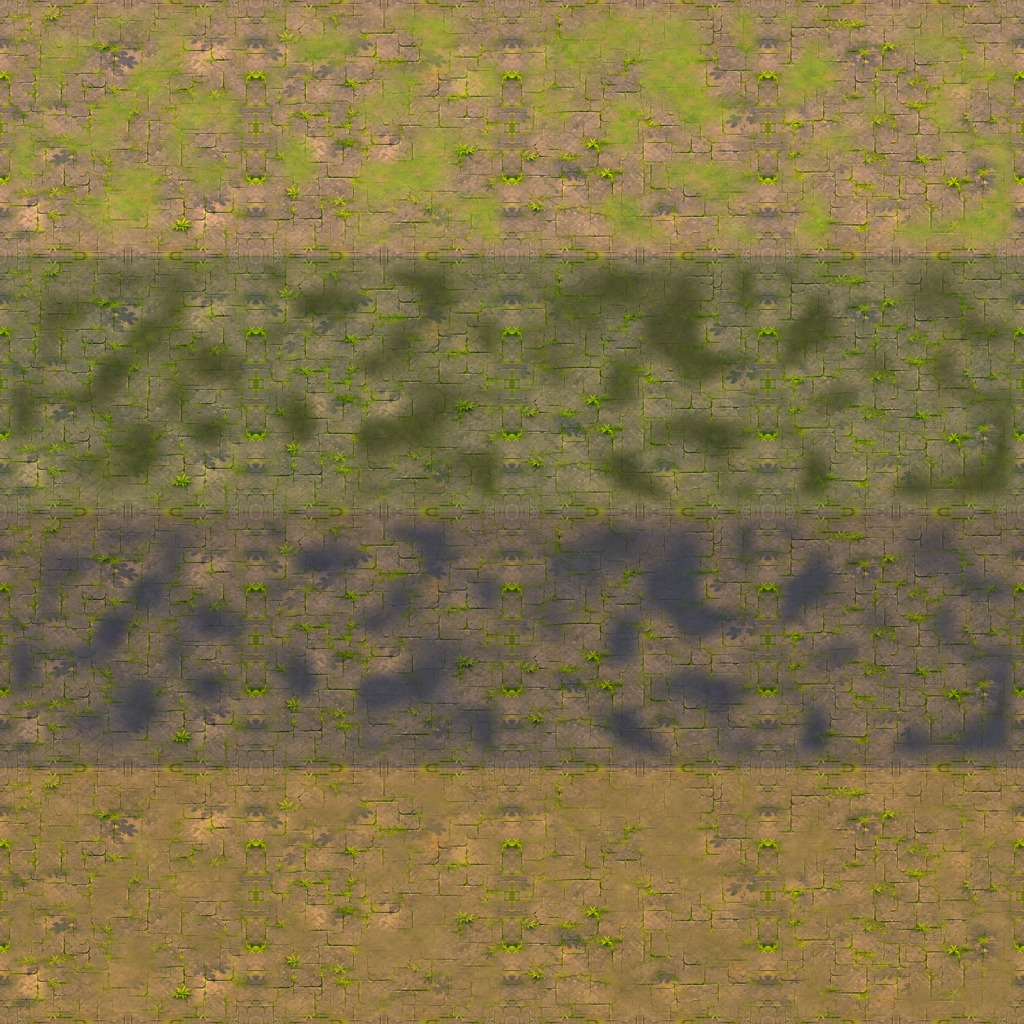
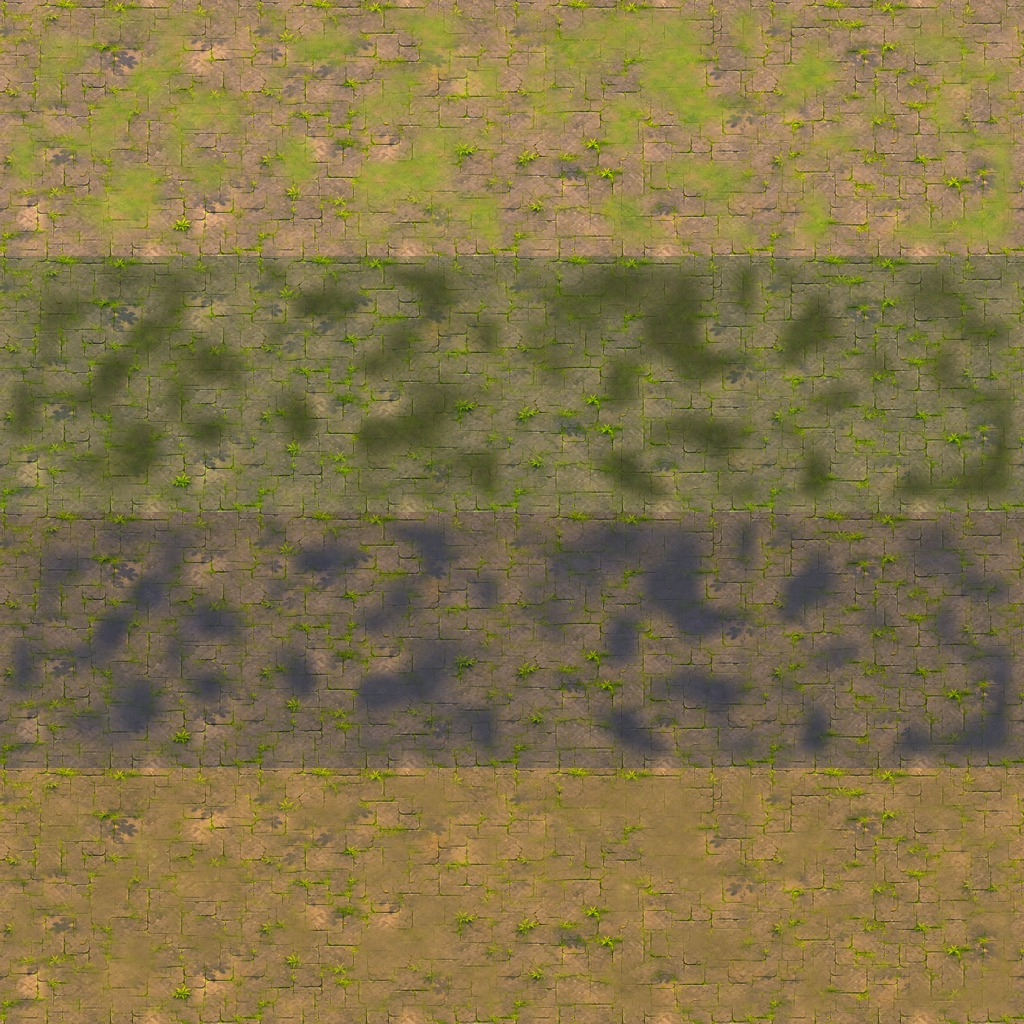
Polish captured forest edges, remove mirrored paving and expose water shelves

Changed region(s): [[0.0, 0.0, 1.0, 1.0]]

diff --git a/OutpostZero/WorldOneEnvironmentPlan.swift b/OutpostZero/WorldOneEnvironmentPlan.swift
@@ -88,7 +88,9 @@ enum WorldOneEnvironmentPlan {
                 let height: CGFloat = 104 + random()*42
                 let width = height*aspect(tree)
                 let anchor = WorldOneArtMetrics.groundAnchorY(for: tree)
-                let distance = 8 + random()*30
+                // Set the forest back behind the north/south water shelves.
+                let wetShelf = (theme == .swamp || theme == .caves) && side >= 2 && t > 0.25 && t < 0.75
+                let distance = 8 + random()*30 + (wetShelf ? 100 : 0)
                 var x: CGFloat, y: CGFloat
                 switch side {
                 case 0: x = bounds.minX-distance-width/2; y = bounds.minY + length*t
@@ -110,7 +112,7 @@ enum WorldOneEnvironmentPlan {
         // A sprite's full frame must fit a blocked rectangle. No column courses,
         // repeated wall rails, new invisible obstacles or mid-lane decorations.
         for (index, patch) in blocked.enumerated() {
-            let rows = max(1, Int(patch.height/58))
+            let rows = max(1, Int(patch.height/34))
             for row in 0..<rows {
                 let kinds = ["vegetation", "boulder", "wall", "vegetation", "debris"]
                 let kind = kinds[(row+index+room)%kinds.count]
@@ -119,7 +121,7 @@ enum WorldOneEnvironmentPlan {
                 let y = patch.minY + CGFloat(row+1)*patch.height/CGFloat(rows+1)
                 add(name, x: patch.midX + (random()-0.5)*min(10, patch.width*0.2),
                     y: y, height: max(14, height), inside: patch)
-                if patch.width >= 70, row.isMultiple(of: 2) {
+                if patch.width >= 70 {
                     add("forest_broadleaf_polished", x: patch.midX, y: y,
                         height: min(105, patch.width/aspect("forest_broadleaf_polished")-4), inside: patch)
                 }
@@ -140,7 +142,9 @@ enum WorldOneEnvironmentPlan {
             ? [CGRect(x: bounds.minX-130, y: bounds.minY+bounds.height*0.25,
                       width: 130, height: 170),
                CGRect(x: bounds.maxX, y: bounds.minY+bounds.height*0.65,
-                      width: 120, height: 145)] : []
+                      width: 120, height: 145),
+               CGRect(x: bounds.midX-190, y: bounds.minY-120, width: 180, height: 120),
+               CGRect(x: bounds.midX+10, y: bounds.maxY, width: 180, height: 120)] : []
         return Plan(room: room, theme: theme, bounds: bounds, groundBounds: ground,
             blocked: blocked, props: props, pools: pools,
             groundOrigin: CGPoint(x: bounds.midX-256, y: bounds.minY-128))

diff --git a/OutpostZero/OutpostScene.swift b/OutpostZero/OutpostScene.swift
@@ -2338,7 +2338,9 @@ final class OutpostScene: SKScene {
         if arena.parent != nil { BattlefieldArt.install(in: self, behind: arena, includeForest: worldMapIndex != 0) }
         passageGate.position = authoredGatePosition
         if !zoneScenery.children.isEmpty { updateZoneScenery(zoneIndex) }
-        if !hazardScenery.children.isEmpty { rebuildTerrainHazards() }
+        // World 1 shoulders have no separate hazard drawing now. Their
+        // collision patches must still follow a resized room's new origin.
+        if (worldMapIndex == 0 && wave > 0) || !hazardScenery.children.isEmpty { rebuildTerrainHazards() }
         if wave == 0 && phase == .ready { pilot.position = entryPoint }
         updateArenaCamera(delta: 1)
         // One utility row and a slim progress row, below the device safe area.
@@ -6801,7 +6803,9 @@ final class OutpostScene: SKScene {
         guard build338ReviewEnabled else { return }
         if build338ReviewStart == nil { build338ReviewStart = clock }
         let elapsed = clock-build338ReviewStart!
-        let boundaries: [TimeInterval] = [2,4,6,8,10,12,14,16,20,23]
+        // Let recordVideo finish opening before leaving the entrance. The
+        // first capture lost that initial two-second presentation window.
+        let boundaries: [TimeInterval] = [5,8,11,14,17,20,23,26,31,34]
         let stage = boundaries.filter { elapsed >= $0 }.count
         guard stage != build338ReviewStage else { return }
         build338ReviewStage = stage
@@ -6875,13 +6879,14 @@ final class OutpostScene: SKScene {
             ?? SKLabelNode(fontNamed: "AvenirNext-Heavy")
         if label.parent == nil {
             label.name = "build338ReviewLabel"
-            label.fontSize = 11
+            label.fontSize = 9
+            label.horizontalAlignmentMode = .right
             label.fontColor = .cyan
             label.zPosition = 100
             addChild(label)
         }
         label.text = "BUILD 338 QA: \(names[stage].uppercased())"
-        label.position = CGPoint(x: size.width/2,y: size.height-(view?.safeAreaInsets.top ?? 0)-145)
+        label.position = CGPoint(x: size.width-12,y: max(12,(view?.safeAreaInsets.bottom ?? 0)+8))
         print("[BUILD338] stage=\(names[stage]) elapsed=\(elapsed) room=\(wave) pilot=\(pilot.position) camera=\(arena.position)")
         fflush(stdout)
     }

diff --git a/scripts/extract_build338_frames.swift b/scripts/extract_build338_frames.swift
@@ -1,0 +1,38 @@
+import AppKit
+import AVFoundation
+import Foundation
+
+// Extract actual simulator video frames, never reconstructed scene previews.
+// The small recording-start offset is estimated from the completed tour's
+// 34-second trace. The visible QA badge must be checked during human review.
+let directory = URL(fileURLWithPath: "build338-review", isDirectory: true)
+let asset = AVURLAsset(url: directory.appendingPathComponent("world1-tour.mp4"))
+let duration = CMTimeGetSeconds(asset.duration)
+precondition(duration > 25, "Tour video must include the full extended entrance hold")
+let generator = AVAssetImageGenerator(asset: asset)
+generator.appliesPreferredTrackTransform = true
+generator.requestedTimeToleranceBefore = .zero
+generator.requestedTimeToleranceAfter = .zero
+let samples: [(String, Double)] = [
+    ("outpost-entry",2.5), ("outpost-combat",6.5), ("swamp",9.5),
+    ("toxic-caves",12.5), ("reactor",15.5), ("boss",18.5),
+    ("far-wall-portal",21.5), ("portal-approach",24.5),
+    ("long-camera",28.5), ("transition",32.5)
+]
+let offset = max(0,34-duration)
+var report: [[String: Any]] = []
+for (name, elapsed) in samples {
+    let seconds = min(duration-0.1,max(0.2,elapsed-offset))
+    var actual = CMTime.zero
+    let image = try generator.copyCGImage(at: CMTime(seconds: seconds,preferredTimescale: 600),actualTime: &actual)
+    let png = NSBitmapImageRep(cgImage: image).representation(using: .png,properties: [:])!
+    try png.write(to: directory.appendingPathComponent(name+".png"))
+    report.append(["stage":name,"video_seconds":CMTimeGetSeconds(actual),
+                   "width":image.width,"height":image.height])
+}
+let manifest: [String: Any] = ["video_duration_seconds":duration,
+    "estimated_recording_start_offset":offset,"frames":report,
+    "visual_approval":false,"note":"Check visible stage badges and actual pixels; extraction is not visual approval."]
+try JSONSerialization.data(withJSONObject: manifest,options: [.prettyPrinted,.sortedKeys])
+    .write(to: directory.appendingPathComponent("frame-manifest.json"))
+print("Extracted ten actual simulator frames for human review")

diff --git a/OutpostZero/WorldOneEnvironment.swift b/OutpostZero/WorldOneEnvironment.swift
@@ -37,11 +37,20 @@ enum WorldOneEnvironment {
         if !plan.blocked.isEmpty {
             let grove = SKCropNode()
             grove.name = "solidForestShoulders"
-            let path = CGMutablePath()
-            for rect in plan.blocked { path.addRect(rect) }
-            let mask = SKShapeNode(path: path)
-            mask.fillColor = .white
-            mask.strokeColor = .clear
+            // Soft overlapping masks remove the rectangular soil panels seen
+            // in the first live capture. Actual collision remains rectangular;
+            // dense rooted foliage describes that footprint above the soil.
+            let mask = SKNode()
+            for rect in plan.blocked {
+                let count = max(1, Int(ceil(rect.height/65)))
+                for index in 0..<count {
+                    let lobe = SKSpriteNode(texture: ProductionPresentation.glow(.white))
+                    lobe.size = CGSize(width: rect.width*1.45, height: min(190,rect.height*1.6))
+                    lobe.position = CGPoint(x: rect.midX + CGFloat(index%3-1)*rect.width*0.08,
+                        y: rect.minY+(CGFloat(index)+0.5)*rect.height/CGFloat(count))
+                    mask.addChild(lobe)
+                }
+            }
             grove.maskNode = mask
             if let moss = texture("world1_\(plan.theme.family)_floor_1") {
                 for rect in plan.blocked {

diff --git a/tests/WorldOneUnifiedTests.swift b/tests/WorldOneUnifiedTests.swift
@@ -24,7 +24,7 @@ struct WorldOneUnifiedTests {
             let plan = WorldOneEnvironmentPlan.make(room: room, layout: layout, origin: origin, aspect: aspect)
             precondition(plan.bounds == layout.bounds.offsetBy(dx: origin.x, dy: origin.y))
             precondition(plan.groundBounds.contains(plan.bounds.insetBy(dx: -20, dy: -132)))
-            precondition(plan.props.count < 160, "Bound environment node creation per room")
+            precondition(plan.props.count < 220, "Bound dense forest sprite creation per room")
             for prop in plan.props where prop.frame.intersects(plan.bounds) {
                 precondition(plan.blocked.contains { $0.contains(prop.frame) },
                     "Scenery cannot occupy a navigable lane: \(prop.asset), room \(room)")

diff --git a/scripts/bake_build338_ground.py b/scripts/bake_build338_ground.py
@@ -41,20 +41,20 @@ def quilt(source, seed):
                     xx, yy = px+ox, py+oy
                     if xx < SIZE and yy < SIZE and xx+edge > 0 and yy+edge > 0:
                         canvas.paste(patch, (xx, yy), mask)
-    # Periodicize using the reflected four quadrants of the central material.
-    # The common collar below then guarantees all variants join one another.
+    # Each patch is pasted across the toroidal boundary in the same order.
+    # The common collar below guarantees that different variants also join.
     return canvas
 
 
 def periodic(image):
-    # Fold a half-size material patch into a periodic surface. The material
-    # is authored stone/grass; no floor geometry or rectangular stone stamps.
-    a = image.crop((256, 256, 768, 768))
-    out = Image.new('RGB', (SIZE, SIZE))
-    out.paste(a, (0, 0))
-    out.paste(a.transpose(Image.Transpose.FLIP_LEFT_RIGHT), (512, 0))
-    out.paste(a.transpose(Image.Transpose.FLIP_TOP_BOTTOM), (0, 512))
-    out.paste(a.transpose(Image.Transpose.FLIP_LEFT_RIGHT).transpose(Image.Transpose.FLIP_TOP_BOTTOM), (512, 512))
+    # The quilt already wraps; do not mirror quadrants. Mirroring introduced
+    # conspicuous paired stone seams in the first actual simulator capture.
+    # Match only the outermost samples to make filtering at cell edges exact.
+    out = image.copy()
+    column = Image.blend(out.crop((0,0,1,SIZE)),out.crop((SIZE-1,0,SIZE,SIZE)),0.5)
+    out.paste(column,(0,0));out.paste(column,(SIZE-1,0))
+    row = Image.blend(out.crop((0,0,SIZE,1)),out.crop((0,SIZE-1,SIZE,SIZE)),0.5)
+    out.paste(row,(0,0));out.paste(row,(0,SIZE-1))
     return out
 
 
@@ -65,6 +65,7 @@ def main():
     collar.putdata([round(255*min(1, max(0, (min(x, y, SIZE-1-x, SIZE-1-y)-24)/72)))
                     for y in range(SIZE) for x in range(SIZE)])
     outputs = []
+    secondary_sources = {}
     previews = Image.new('RGB', (4*256, 4*256))
     for row, (theme, tint) in enumerate(THEMES.items()):
         for variant in range(4):
@@ -75,6 +76,7 @@ def main():
             family = {'outpost':'ruined_outpost', 'swamp':'swamp_basin',
                       'caves':'toxic_caves', 'sanctuary':'boss_arena'}[theme]
             soil_path = ROOT / f'OutpostZero/Assets.xcassets/world1_{family}_floor_1.imageset/world1_{family}_floor_1.png'
+            secondary_sources[str(soil_path.relative_to(ROOT))] = hashlib.sha256(soil_path.read_bytes()).hexdigest()
             soil_source = Image.open(soil_path).convert('RGB').crop((32,100,480,660))
             soil = quilt(soil_source, 8338+variant*29)
             rng = random.Random(77338+variant*31)
@@ -102,6 +104,7 @@ def main():
     previews.save(target / 'derived-materials-source-preview.jpg', quality=92)
     (target / 'ground-provenance.json').write_text(json.dumps({'source': str(SOURCE.relative_to(ROOT)),
         'source_sha256': hashlib.sha256(SOURCE.read_bytes()).hexdigest(), 'source_crop': CROP,
+        'secondary_sources_sha256': secondary_sources,
         'pixels_per_world_point': 2, 'cell_world_size': 512, 'shared_edge_pixels': 24,
         'note': 'Derived material preview only; not simulator or gameplay evidence.', 'outputs': outputs}, indent=2)+'\n')
     print(f'Baked {len(outputs)} authored-pixel materials with shared periodic edges')

diff --git a/scripts/verify_build338_bundle.py b/scripts/verify_build338_bundle.py
@@ -1,5 +1,6 @@
 #!/usr/bin/env python3
 """Check actual compiled CAR names and loose approved resources, not only source files."""
+import hashlib
 import json
 from pathlib import Path
 import subprocess
@@ -13,7 +14,21 @@ for motion,count in [('idle',8),('move',8),('attack',10),('hit',6),('defeat',8)]
     expected.update(f'mossbot_{motion}_{i:02d}' for i in range(count))
 missing=expected-names
 if missing: raise SystemExit(f'Missing compiled catalog assets: {sorted(missing)}')
-for name in ['outpost_zero_portal_approved_transparent','forest_pine_polished','forest_broadleaf_polished',
-             'boss_root_lord','outpost_zero_reactor_approved_transparent']:
-    if not list(app.rglob(name+'.png')): raise SystemExit(f'Missing approved bundled resource: {name}')
-print(f'PASS: {len(expected)} compiled catalog names, approved round portal, trees, reactor and boss resources')
+raw_names={'outpost_zero_portal_approved_transparent','forest_pine_polished','forest_broadleaf_polished',
+           'boss_root_lord','outpost_zero_reactor_approved_transparent'}
+for family in ['ruined_outpost','swamp_basin','toxic_caves','boss_arena']:
+    expected.update(f'world1_{family}_{kind}' for kind in ['floor_1','wall','boulder','vegetation','debris'])
+missing=expected-names
+if missing: raise SystemExit(f'Missing compiled environment resources: {sorted(missing)}')
+raw_hashes={}
+for name in sorted(raw_names):
+    paths=list(app.rglob(name+'.png'))
+    if not paths: raise SystemExit(f'Missing approved bundled resource: {name}')
+    raw_hashes[name]=hashlib.sha256(paths[0].read_bytes()).hexdigest()
+reference=json.loads(Path('docs/build338/approved-assets.json').read_text())
+if raw_hashes['outpost_zero_portal_approved_transparent'] != reference['portal_sha256']:
+    raise SystemExit('Actual bundled portal differs from the approved baseline')
+report={'compiled_catalog_names':sorted(expected),'bundled_resource_sha256':raw_hashes,
+        'approved_portal_hash_matches':True}
+Path('build338-bundle-report.json').write_text(json.dumps(report,indent=2)+'\n')
+print(f'PASS: {len(expected)} compiled catalog names, approved bundled resource hashes and exact round portal bytes')

diff --git a/tests/test_build338_materials.py b/tests/test_build338_materials.py
@@ -13,6 +13,12 @@ class MaterialTests(unittest.TestCase):
         manifest = json.loads((ROOT/'docs/build338/ground-provenance.json').read_text())
         self.assertEqual(hashlib.sha256((ROOT/manifest['source']).read_bytes()).hexdigest(), manifest['source_sha256'])
         self.assertEqual(manifest['pixels_per_world_point'],2)
+        for source, digest in manifest['secondary_sources_sha256'].items():
+            self.assertEqual(hashlib.sha256((ROOT/source).read_bytes()).hexdigest(),digest)
+        for entry in manifest['outputs']:
+            name=entry['name']
+            actual=ROOT/f'OutpostZero/Assets.xcassets/{name}.imageset/{name}.png'
+            self.assertEqual(hashlib.sha256(actual.read_bytes()).hexdigest(),entry['sha256'])
         for theme in ['outpost','swamp','caves','sanctuary']:
             images=[]
             for variant in range(4):

diff --git a/docs/build338/README.md b/docs/build338/README.md
@@ -33,4 +33,10 @@ Initial [routine run 43782099180](https://github.com/JPaulus04/invasion-front-ap
 
 The dedicated workflow runs source checks, 53 Python tests, native room/environment/animation/replay/driver/pacing tests, iOS compilation and actual compiled-bundle asset verification. The manual visual milestone uses the ARM runner configuration from the successful main capture. It creates one disposable device and records one continuous ten-stage live scene tour, including real camera movement and portal interaction. A successful trace is explicitly **not visual approval**.
 
-Visual review and final validation outcomes are pending. No quality score, release acceptance or TestFlight readiness is claimed. This branch must not be merged or uploaded without user approval.
+The [first live milestone at 380171f](https://github.com/JPaulus04/invasion-front-app/actions/runs/43782721778) **passed** compilation, bundle verification and the continuous scene tour, including a real 1→2 transition. Its downloaded video was reviewed. The approved portal is round and seated between authored ruins; reactor integrity is readable with the player below it; the Root Lord has a clear combat approach. The images exposed hard rectangular shoulder soil, mirrored material-edge motifs, insufficient water visibility and a QA badge overlapping the boss label. The next revision softens the soil mask, increases rooted foliage density inside the same collision shoulders, removes reflected material quadrants, adds north/south exterior water shelves, and moves the debug badge to the footer. Resizing also rebuilds the shoulder collision patches even though those patches no longer create hazard drawing nodes.
+
+The entrance hold is extended because the first video encoder missed that initial two-second stage. The next milestone extracts ten full-resolution PNGs from the actual simulator video; frame timing metadata is retained, and visible stage badges must be inspected. No additional scenery is reconstructed for these images.
+
+**Current validation outcomes, final screenshot review, exact tested revision and release recommendation are maintained in [PR #11](https://github.com/JPaulus04/invasion-front-app/pull/11).** The immutable first-milestone result above applies to its recorded source revision. No 9.5/10 score or automatic visual approval is claimed here. This branch must not be merged or uploaded without user approval.
+
+The repository's uploaded arena painting and approved portal are available references. No separate external approval board or reference images were supplied in this request; an exact match to such an external reference cannot be certified. Physical-device performance and compact-device combat presentation remain separate checks from source tests or one simulator tour.
